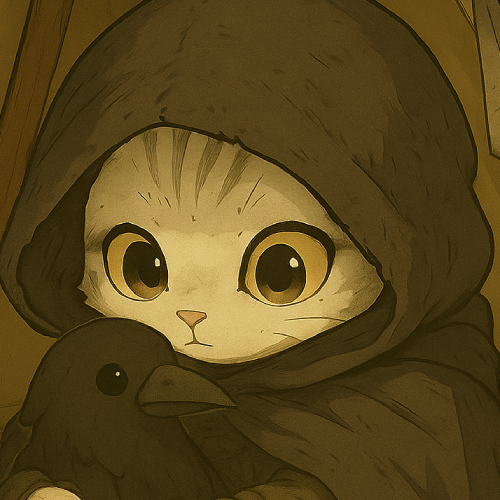
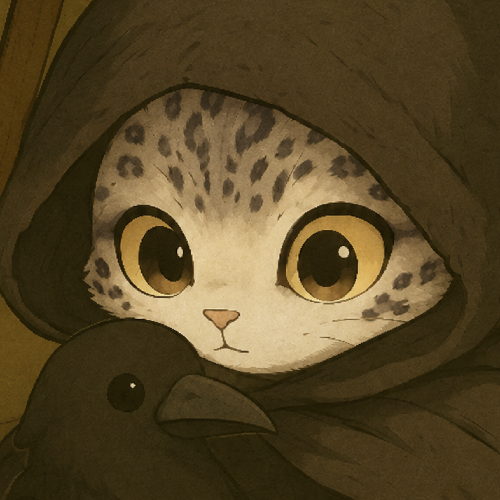
fixed Qidi's images

diff --git a/docs/characters/theEverwinters.md b/docs/characters/theEverwinters.md
@@ -69,7 +69,7 @@ Qidi spends his days now bringing honor to the Everwinter name, to her name, lik
 
 </div>
 <div>
-![Qidi Everwinter](/img/characters/qidiEverwinterTwo.png)
+![Qidi Everwinter](/img/characters/qidiEverwinterFixedTwo.png)
 </div>
 </div>
 
